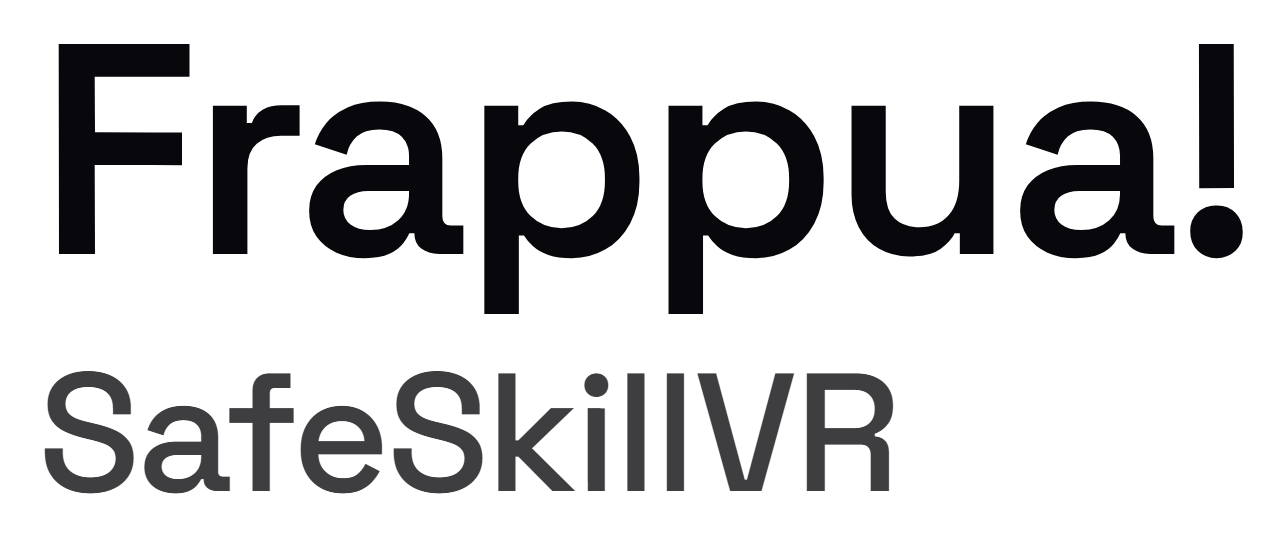
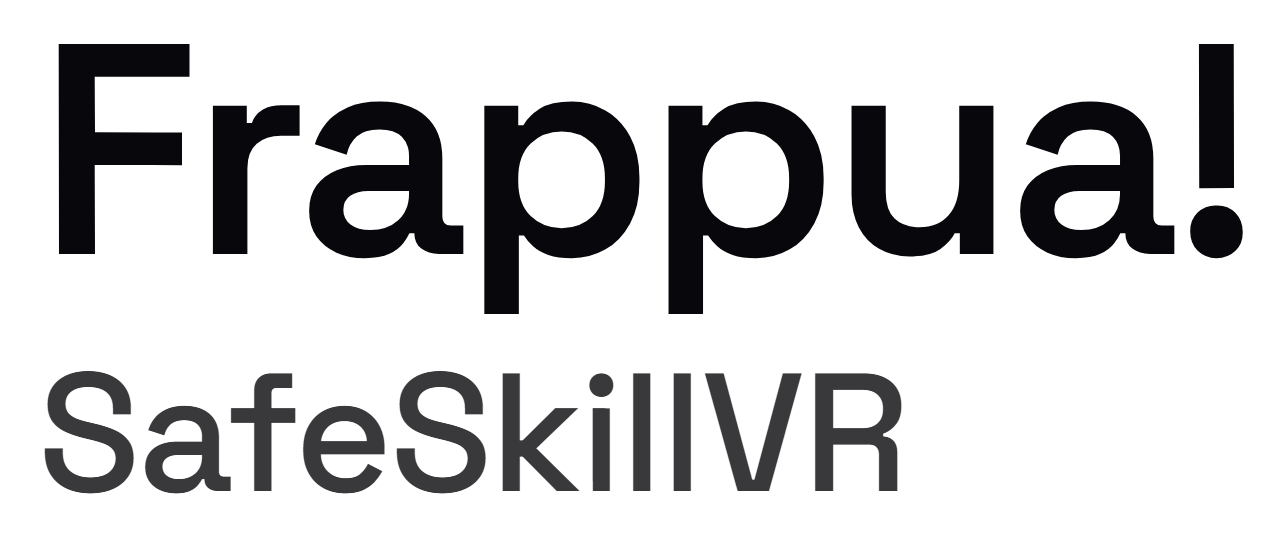
Add the plain-type "Frappua! / building SafeSkillVR" variant
Second line at about 37% so it sits within the width of "Frappua!"; "building"
lighter so the product name leads. Still no logo elements.

Changed region(s): [[0.1865, 0.684, 0.7148, 0.9219], [0.1865, 0.7138, 0.2176, 0.7435]]

diff --git a/docs/BRAND-SIGNATURE.md b/docs/BRAND-SIGNATURE.md
@@ -101,6 +101,18 @@ SafeSkillVR
 набраны Space Grotesk; иерархия только размером (SafeSkillVR около 56 процентов от
 Frappua!) и лёгким приглушением второй строки.
 
+Вариант с глаголом:
+
+```text
+Frappua!
+building SafeSkillVR
+```
+
+Вторая строка длиннее, поэтому она меньше (около 37 процентов от Frappua!) и по ширине
+укладывается под первую. Слово «building» светлее и тоньше, имя продукта ведёт. Брать,
+когда читателю нужно сразу понять связь «эта команда делает этот продукт», например в
+спотлайтах и списках участников.
+
 Когда брать: там, где логотип визуально лишний или спорит с чужим макетом: партнёрские
 карточки и слайды, таблицы участников, подписи на фото команды, титры, документы.
 Монохромная, поэтому ложится на любой фон, включая синий хаба.
@@ -132,8 +144,10 @@ Frappua!) и лёгким приглушением второй строки.
 | `frappua-building-safeskillvr-heh-dark.png` | команда | экосистемная | светлый |
 | `frappua-safeskillvr-plain-light.png` | команда | чистый набор без логотипа | тёмный |
 | `frappua-safeskillvr-plain-dark.png` | команда | чистый набор без логотипа | светлый |
+| `frappua-building-safeskillvr-plain-light.png` | команда | чистый набор, «building» | тёмный |
+| `frappua-building-safeskillvr-plain-dark.png` | команда | чистый набор, «building» | светлый |
 
-Пересборка всех двенадцати: `node brand/safeskillvr/src/build-signature.mjs`; только одного
+Пересборка всех четырнадцати: `node brand/safeskillvr/src/build-signature.mjs`; только одного
 семейства: добавить фильтр по имени, например `frappua-`.
 
 Все PNG с прозрачным фоном, высота около 520 пикселей, поля включены в файл. Прозрачность
